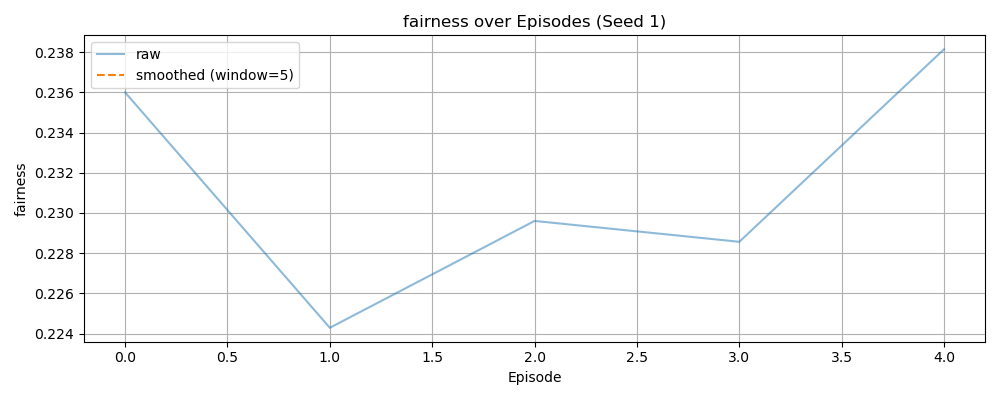
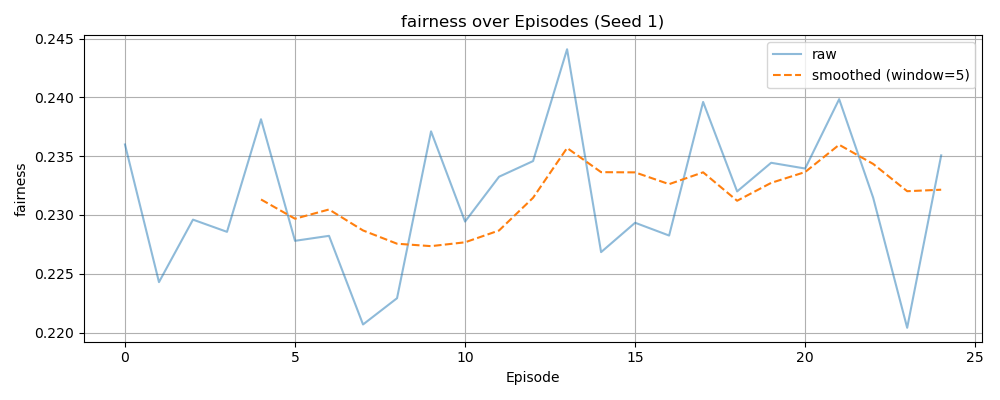
Added writing to csv file with all metrics

diff --git a/util/training.py b/util/training.py
@@ -184,6 +184,11 @@ def train_agents_with_dynamic_master(env, agents, number_of_episodes, max_column
         metrics['actual_stepwise_fairness'].append(np.mean(fairness_per_timestep))
 
         print(f"Finished episode {episode+1} with actual return {episode_return:.2f}, fairness {fairness_score:.4f}, optimal usage {optimal_usage_score:.4f}, agent claims: {agent_claims}")
-
+    # Include metric average stepwise fairness per seed
+    metrics['average_expected_stepwise_fairness'] = np.mean(metrics['expected_stepwise_fairness'])
+    
+    # Write all metrics to CSV
+    metrics_df = pd.DataFrame(metrics)
+    metrics_df.to_csv(os.path.join('results', f"metrics_seed{seed}(fairness={fairness},langrangian={langrangian},fair_constraint={fairness_constraint}).csv"), index=False)
     plot_all_metrics(metrics, seed, fairness=fairness, langrangian=langrangian, fair_constraint=fairness_constraint)
     return metrics

diff --git a/scripts/factored.py b/scripts/factored.py
@@ -7,7 +7,7 @@ from env.resource_mdp_env import ResourceMDPEnv
 
 def main():
     horizon = 5
-    num_episodes = 5
+    num_episodes = 25
     max_column_generation_rounds = 50
     num_agents = 5
     reward_profile = {
@@ -29,7 +29,7 @@ def main():
         raise ValueError(f"Reward profile length {len(reward_profile)} does not match number of agents {num_agents}.")
     seeds = range(3)
     verbose = False
-    FAIRNESS_ENABLED = True  # Toggle fairness constraint here
+    FAIRNESS_ENABLED = False  # Toggle fairness constraint here
     if FAIRNESS_ENABLED:
         FAIRNESS_CONSTRAINTS_ENABLED = False  # Toggle constraints here
         LANGRANGIAN_ENABLED = True  # Toggle Langranian relaxation here
